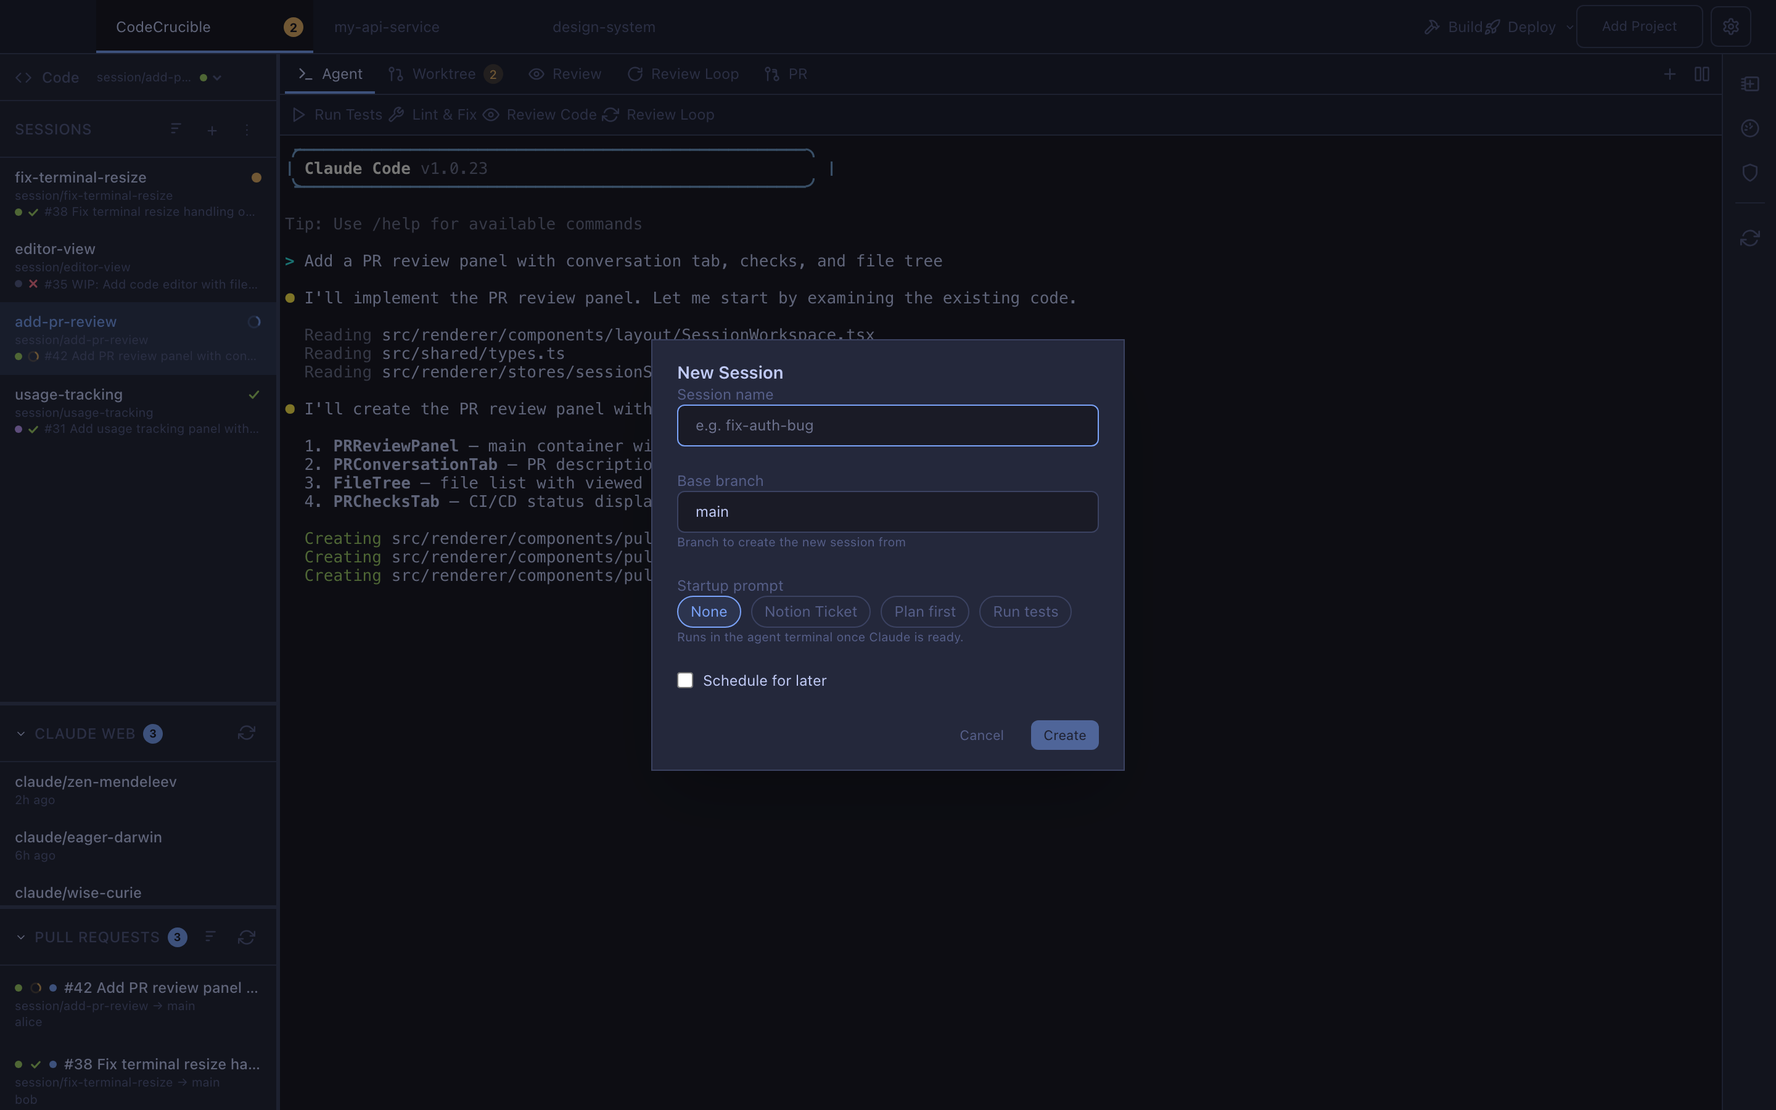
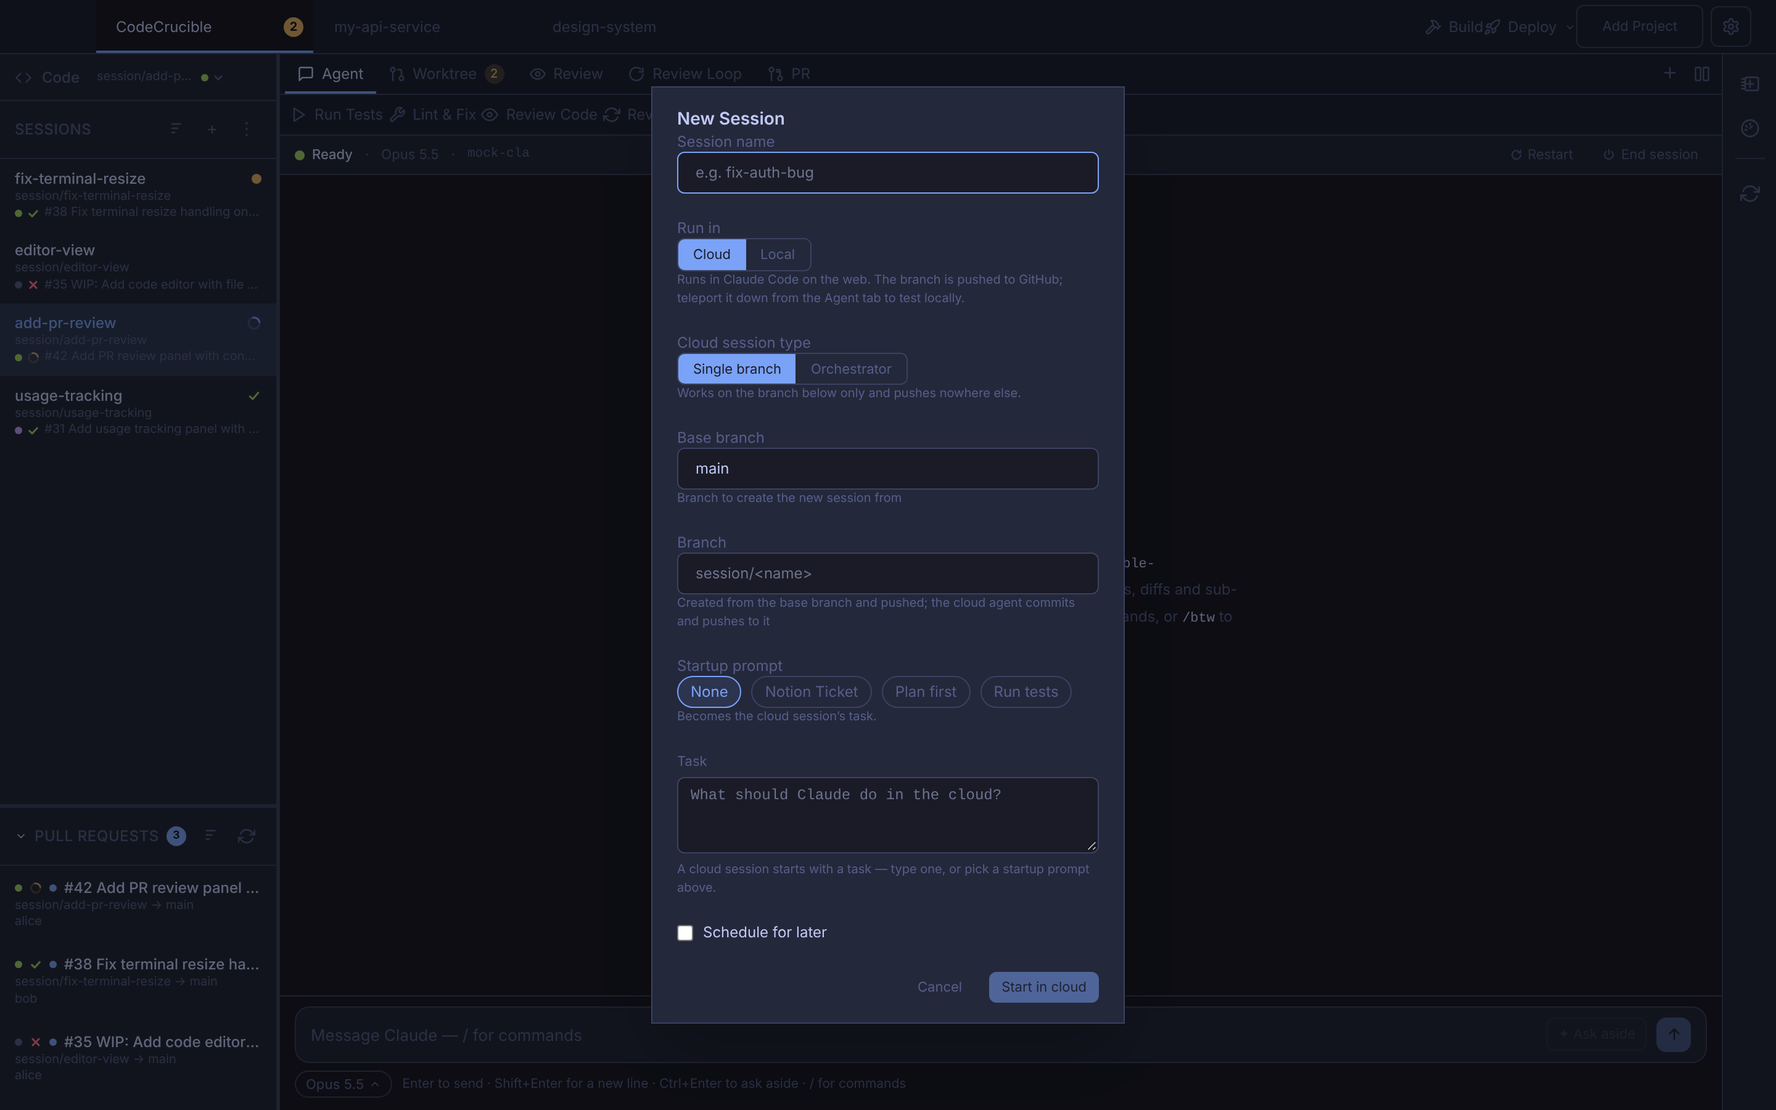
feat(sessions): slug session names for branches; orchestrator cloud sessions
- Session names can be human-readable: the default branch and worktree
  folder use the name lowercased with whitespace runs turned into hyphens
  ("Fix Auth Bug" -> session/fix-auth-bug). Rename follows the same rule.
- New Session dialog: a cloud session is either Single branch (pinned with
  --on-branch and told to push only there, as before) or Orchestrator,
  which starts on the session branch without the pin and is told it may
  create, check out, merge and push whatever branches the task needs.
- README and screenshots updated.

Claude-Session: https://claude.ai/code/session_013YmCEHBtXVHdW5VqGUn2y1

diff --git a/src/renderer/components/sessions/CreateSessionDialog.tsx b/src/renderer/components/sessions/CreateSessionDialog.tsx
@@ -8,7 +8,7 @@ import {
   resolveStartupCommand,
   useStartupPromptStore,
 } from '../../stores/startupPromptStore'
-import type { Project, QueuedSession, SessionLocation } from '../../../shared/types'
+import type { CloudSessionMode, Project, QueuedSession, SessionLocation } from '../../../shared/types'
 import { resolveDefaultSessionLocation } from '../../../shared/cloud-session'
 import { defaultSessionBranch, validateBranchName } from '../../../shared/branch-name'
 import { ToggleGroup } from '../ui/ToggleGroup'
@@ -45,6 +45,8 @@ export function CreateSessionDialog({ open, project, onClose }: Props) {
   const [location, setLocation] = useState<SessionLocation>(() => resolveDefaultSessionLocation(project))
   // The cloud session's task when no startup prompt is picked.
   const [cloudTask, setCloudTask] = useState('')
+  // Single-branch (pinned to the session branch) or an orchestrator that may move between branches.
+  const [cloudMode, setCloudMode] = useState<CloudSessionMode>('single-branch')
   // The session branch follows the name/location until the user edits it.
   const [branchInput, setBranchInput] = useState('')
   const [branchEdited, setBranchEdited] = useState(false)
@@ -80,6 +82,7 @@ export function CreateSessionDialog({ open, project, onClose }: Props) {
     setCustomPrompt('')
     setLocation(resolveDefaultSessionLocation(project))
     setCloudTask('')
+    setCloudMode('single-branch')
     setBranchInput('')
     setBranchEdited(false)
     setBranchesLoading(true)
@@ -207,7 +210,7 @@ export function CreateSessionDialog({ open, project, onClose }: Props) {
           undefined,
           {
             branchName: branch || undefined,
-            ...(cloud ? { location: 'cloud' as const } : {}),
+            ...(cloud ? { location: 'cloud' as const, cloudMode } : {}),
           }
         )
       }
@@ -219,6 +222,7 @@ export function CreateSessionDialog({ open, project, onClose }: Props) {
       setScheduledForInput('')
       setCustomPrompt('')
       setCloudTask('')
+      setCloudMode('single-branch')
       setBranchInput('')
       setBranchEdited(false)
       onClose()
@@ -260,6 +264,25 @@ export function CreateSessionDialog({ open, project, onClose }: Props) {
           </div>
         )}
 
+        {cloud && (
+          <div>
+            <label className="block text-xs text-text-muted mb-2">Cloud session type</label>
+            <ToggleGroup<CloudSessionMode>
+              options={[
+                { value: 'single-branch', label: 'Single branch' },
+                { value: 'orchestrator', label: 'Orchestrator' },
+              ]}
+              value={cloudMode}
+              onChange={setCloudMode}
+            />
+            <p className="text-[10px] text-text-muted mt-2">
+              {cloudMode === 'orchestrator'
+                ? 'Starts on the branch below but may create, switch between and push any branches the task needs.'
+                : 'Works on the branch below only and pushes nowhere else.'}
+            </p>
+          </div>
+        )}
+
         <BranchCombobox
           label="Base branch"
           hint="Branch to create the new session from"
@@ -286,7 +309,9 @@ export function CreateSessionDialog({ open, project, onClose }: Props) {
             error={branchError ?? undefined}
             hint={
               cloud
-                ? 'Created from the base branch and pushed; the cloud agent commits and pushes to it'
+                ? cloudMode === 'orchestrator'
+                  ? 'Created from the base branch and pushed; the orchestrator starts on it'
+                  : 'Created from the base branch and pushed; the cloud agent commits and pushes to it'
                 : 'Created from the base branch for this session'
             }
           />

diff --git a/src/main/services/cloud-create.service.ts b/src/main/services/cloud-create.service.ts
@@ -20,7 +20,7 @@
  */
 import type { BrowserWindow } from 'electron'
 import { IPC } from '../../shared/constants'
-import type { CloudCreateState } from '../../shared/types'
+import type { CloudCreateState, CloudSessionMode } from '../../shared/types'
 import * as terminalService from './terminal.service'
 import {
   claudeShellCommand,
@@ -31,6 +31,7 @@ import {
   pushSessionBranch,
   summarizeCreateFailure,
   withBranchInstruction,
+  withOrchestratorInstruction,
 } from './cloud-session.service'
 
 /** The Agent tab id cloud PTYs report under. */
@@ -46,6 +47,8 @@ export interface StartCloudCreateOptions {
   worktreePath: string
   branch: string
   task: string
+  /** Default 'single-branch'. */
+  mode?: CloudSessionMode
   configDir?: string | null
   repoPath?: string
   claudeTheme?: string
@@ -78,8 +81,20 @@ export function forgetCloudCreate(sessionId: string): void {
   runs.delete(sessionId)
 }
 
+/**
+ * The `--cloud` task for a run. A single-branch session is told to push only
+ * to its branch; an orchestrator is told it may move between branches.
+ */
+const createTask = (opts: Pick<StartCloudCreateOptions, 'task' | 'branch' | 'mode'>): string =>
+  opts.mode === 'orchestrator'
+    ? withOrchestratorInstruction(opts.task, opts.branch)
+    : withBranchInstruction(opts.task, opts.branch)
+
 function spawnCreatePty(run: Run, opts: StartCloudCreateOptions, withOnBranch: boolean): void {
-  const argv = cloudStartArgv(withBranchInstruction(opts.task, opts.branch), withOnBranch ? opts.branch : undefined)
+  // An orchestrator is never pinned with --on-branch: it starts on the pushed
+  // branch (the worktree's current one) and may push others.
+  const pin = withOnBranch && opts.mode !== 'orchestrator'
+  const argv = cloudStartArgv(createTask(opts), pin ? opts.branch : undefined)
   // One cloud PTY per session Agent tab; spawnTerminal is idempotent per tab.
   terminalService.killTerminalsForTab(opts.sessionId, CLOUD_PTY_TAB)
   const terminalId = terminalService.spawnTerminal(
@@ -119,7 +134,7 @@ function spawnCreatePty(run: Run, opts: StartCloudCreateOptions, withOnBranch: b
           emit(run)
           return
         }
-        if (withOnBranch && isUnknownOnBranchError(run.output)) {
+        if (pin && isUnknownOnBranchError(run.output)) {
           // A CLI without --on-branch: the VM still clones the pushed branch
           // (the worktree's current branch) and the task text steers it.
           spawnCreatePty(run, opts, false)
@@ -153,7 +168,7 @@ export async function startCloudCreate(window: BrowserWindow, opts: StartCloudCr
   const task = opts.task?.trim()
   if (!task) throw new Error('A cloud session needs a task description to start')
   // Validates the branch and task before anything runs.
-  cloudStartArgv(withBranchInstruction(task, opts.branch), opts.branch)
+  cloudStartArgv(createTask({ ...opts, task }), opts.branch)
 
   forgetCloudCreate(opts.sessionId)
   const run: Run = {

diff --git a/src/preload/index.ts b/src/preload/index.ts
@@ -2,7 +2,7 @@ import { contextBridge, ipcRenderer } from 'electron'
 import { IPC } from '../shared/constants'
 import type { VisualAgentAskDecision, VisualAgentFrame, VisualAgentSnapshot, VisualAgentStartOptions } from '../shared/visual-agent'
 import type { AgentBrowserLinkEvent } from '../shared/agent-browser'
-import type { Project, Session, Commit, FileDiff, PullRequest, PRFile, PRComment, PRReviewEvent, PRMergeMethod, UpdateStatus, Note, PRDetail, PRConversationComment, PRCheck, PRReviewThread, SessionUsage, UsageStats, SubscriptionInfo, FileEntry, FileStat, ClaudeAccount, CustomButton, CustomButtonGroup, ButtonActionType, ButtonExecutionMode, ContextKind, GitHubCollaborator, PRLabel, StartupPrompt, ReviewLoopConfig, ReviewLoopSettings, ReviewLoopState, QueuedSession, QueuedMessage, UsageLimitEvent, NotionDatabaseSchema, NotionFireTaskPayload, NotionIntegrationConfig, NotionRelationOption, NotionTaskPayload, NotionTestConnectionResult, NotionUser, CloudSessionResult, CloudTeleportResult, CloudTeleportState, CloudCreateState, SandboxJob, SandboxInfo, SandboxTeardownReport, SandboxerConfigCheck } from '../shared/types'
+import type { Project, Session, Commit, FileDiff, PullRequest, PRFile, PRComment, PRReviewEvent, PRMergeMethod, UpdateStatus, Note, PRDetail, PRConversationComment, PRCheck, PRReviewThread, SessionUsage, UsageStats, SubscriptionInfo, FileEntry, FileStat, ClaudeAccount, CustomButton, CustomButtonGroup, ButtonActionType, ButtonExecutionMode, ContextKind, GitHubCollaborator, PRLabel, StartupPrompt, ReviewLoopConfig, ReviewLoopSettings, ReviewLoopState, QueuedSession, QueuedMessage, UsageLimitEvent, NotionDatabaseSchema, NotionFireTaskPayload, NotionIntegrationConfig, NotionRelationOption, NotionTaskPayload, NotionTestConnectionResult, NotionUser, CloudSessionResult, CloudTeleportResult, CloudTeleportState, CloudCreateState, CloudSessionMode, SandboxJob, SandboxInfo, SandboxTeardownReport, SandboxerConfigCheck } from '../shared/types'
 
 // Multiplex many subscribers through a single ipcRenderer listener per channel.
 // Without this, each useTerminal/onData/onExit caller adds its own listener and
@@ -537,6 +537,7 @@ const api = {
       worktreePath: string
       branch: string
       task: string
+      mode?: CloudSessionMode
       configDir?: string | null
       repoPath?: string
       claudeTheme?: string

diff --git a/src/renderer/stores/sessionStore.ts b/src/renderer/stores/sessionStore.ts
@@ -1,7 +1,7 @@
 import { create } from 'zustand'
-import type { Session, PullRequest, WorktreeInfo, NotionTicketLink, SessionLocation } from '../../shared/types'
+import type { Session, PullRequest, WorktreeInfo, NotionTicketLink, SessionLocation, CloudSessionMode } from '../../shared/types'
 import { useToastStore } from './toastStore'
-import { renameMovesBranch, sessionRemoteBranch } from '../../shared/branch-name'
+import { defaultSessionBranch, renameMovesBranch, sessionRemoteBranch } from '../../shared/branch-name'
 import { useTerminalStore } from './terminalStore'
 import { useCloudSessionStore } from './cloudSessionStore'
 import { useVisualAgentStore } from './visualAgentStore'
@@ -114,6 +114,8 @@ export interface CreateSessionOptions {
   location?: SessionLocation
   /** Branch to create for the session. Defaults to `session/<name>`. */
   branchName?: string
+  /** How a cloud session treats branches. Default 'single-branch'. */
+  cloudMode?: CloudSessionMode
 }
 
 async function restoreDetachedWorktree(info: DetachedWorktreeInfo | null) {
@@ -265,6 +267,7 @@ export const useSessionStore = create<SessionState>((set, get) => ({
       session.cloudPending = {
         task: startupCommand!.trim(),
         branch: worktreeInfo.branch,
+        ...(options?.cloudMode === 'orchestrator' ? { mode: 'orchestrator' as const } : {}),
         createdAt: new Date().toISOString(),
       }
     }
@@ -407,7 +410,7 @@ export const useSessionStore = create<SessionState>((set, get) => ({
         repoPath,
         session.worktreePath,
         session.branchName,
-        `session/${trimmed}`
+        defaultSessionBranch(trimmed)
       ))
     }
 

diff --git a/tests/unit/components/sessions/CreateSessionDialog.test.tsx b/tests/unit/components/sessions/CreateSessionDialog.test.tsx
@@ -52,8 +52,31 @@ describe('<CreateSessionDialog> location toggle', () => {
     expect(createSession).toHaveBeenCalledWith('p1', '/repo', 'fix-auth', 'main', 'Fix the auth bug', undefined, {
       branchName: 'session/fix-auth',
       location: 'cloud',
+      cloudMode: 'single-branch',
     })
     await waitFor(() => expect(onClose).toHaveBeenCalled())
+  })
+
+  it('offers an orchestrator cloud session and passes the mode through', async () => {
+    render(<CreateSessionDialog open project={project()} onClose={() => {}} />)
+    await waitFor(() => expect((window as any).api.git.defaultBranch).toHaveBeenCalled())
+    expect(radio('Single branch').getAttribute('aria-checked')).toBe('true')
+    fireEvent.change(screen.getByLabelText('Session name'), { target: { value: 'Big Refactor' } })
+    fireEvent.click(radio('Orchestrator'))
+    fireEvent.change(screen.getByLabelText('Task'), { target: { value: 'Split it up' } })
+    fireEvent.click(screen.getByRole('button', { name: 'Start in cloud' }))
+    await waitFor(() =>
+      expect(createSession).toHaveBeenCalledWith('p1', '/repo', 'Big Refactor', 'main', 'Split it up', undefined, {
+        branchName: 'session/big-refactor',
+        location: 'cloud',
+        cloudMode: 'orchestrator',
+      })
+    )
+  })
+
+  it('hides the cloud session type for a local session', () => {
+    render(<CreateSessionDialog open project={project({ defaultSessionLocation: 'local' })} onClose={() => {}} />)
+    expect(screen.queryByRole('radio', { name: 'Orchestrator' })).toBeNull()
   })
 
   it('switching to Local keeps today’s local create', async () => {

diff --git a/src/shared/branch-name.ts b/src/shared/branch-name.ts
@@ -14,12 +14,18 @@ export const SESSION_BRANCH_PREFIX: Record<SessionLocation, string> = {
   cloud: 'session/',
 }
 
+/**
+ * A session's human-readable name as a branch / directory segment: lowercased,
+ * with each run of whitespace replaced by a hyphen (`Fix Auth Bug` → `fix-auth-bug`).
+ */
+export const sessionNameSlug = (name: string): string => name.trim().toLowerCase().replace(/\s+/g, '-')
+
 export const defaultSessionBranch = (name: string, location: SessionLocation = 'local'): string =>
-  `${SESSION_BRANCH_PREFIX[location]}${name}`
+  `${SESSION_BRANCH_PREFIX[location]}${sessionNameSlug(name)}`
 
 /** The branch a local session named `name` gets when it was not customised. */
 export const isDefaultSessionBranch = (branch: string, name: string): boolean =>
-  (Object.values(SESSION_BRANCH_PREFIX) as string[]).some((p) => branch === `${p}${name}`)
+  (Object.values(SESSION_BRANCH_PREFIX) as string[]).some((p) => branch === `${p}${sessionNameSlug(name)}`)
 
 /**
  * Roughly `git check-ref-format --branch`. Returns a human-readable error, or
@@ -60,4 +66,4 @@ export const sessionDeletesLocalBranch = (session: Pick<Session, 'branchName' | 
 
 /** Whether renaming the session renames its branch (see sessionStore.renameSession). */
 export const renameMovesBranch = (session: Pick<Session, 'name' | 'branchName' | 'cloud' | 'cloudPending'>): boolean =>
-  !session.cloud && !session.cloudPending && session.branchName === `session/${session.name}`
+  !session.cloud && !session.cloudPending && session.branchName === defaultSessionBranch(session.name)

diff --git a/src/main/services/cloud-session.service.ts b/src/main/services/cloud-session.service.ts
@@ -87,6 +87,14 @@ export const cloudStartArgv = (prompt: string, branch?: string): string[] => {
 export const withBranchInstruction = (prompt: string, branch: string): string =>
   `Work on the git branch \`${branch}\` (already checked out for you). Commit your changes and push them to exactly that branch (\`git push origin ${branch}\`); do not create or push to any other branch.\n\n${prompt}`
 
+/**
+ * Prepend an instruction for an orchestrator cloud session: it starts on
+ * `branch` but may create, check out, merge and push whatever branches the
+ * task needs.
+ */
+export const withOrchestratorInstruction = (prompt: string, branch: string): string =>
+  `You are an orchestrator session. You start on the git branch \`${branch}\`, but you are not limited to it: create, check out, merge and push to whichever branches the task needs, and split the work across branches where that helps. When you finish, list every branch you created or pushed and what is on each.\n\n${prompt}`
+
 /** True when claude rejected `--on-branch` as an unknown option (older CLI). */
 export const isUnknownOnBranchError = (text: string): boolean =>
   /(unknown|unrecognized) (option|argument|flag)[^\n]*--on-branch/i.test(text)

diff --git a/src/main/services/worktree.service.ts b/src/main/services/worktree.service.ts
@@ -5,7 +5,7 @@ import { join, dirname, basename, resolve as resolvePath, relative, isAbsolute, 
 import { mkdir, access, realpath, rm } from 'fs/promises'
 import type { WorktreeInfo } from '../../shared/types'
 import { getDefaultBranch } from './git.service'
-import { validateBranchName } from '../../shared/branch-name'
+import { defaultSessionBranch, sessionNameSlug, validateBranchName } from '../../shared/branch-name'
 
 const execFileAsync = promisify(execFile)
 
@@ -171,11 +171,11 @@ export async function createWorktree(
   requestedBranch?: string
 ): Promise<WorktreeInfo> {
   const g = simpleGit(repoPath)
-  const branchName = requestedBranch?.trim() || `session/${sessionName}`
+  const branchName = requestedBranch?.trim() || defaultSessionBranch(sessionName)
   const invalid = validateBranchName(branchName)
   if (invalid) throw new Error(`Invalid branch name "${branchName}": ${invalid}`)
   const wtBase = worktreeDir(repoPath)
-  const wtPath = join(wtBase, sessionName)
+  const wtPath = join(wtBase, sessionNameSlug(sessionName))
 
   // The new branch is created with `-b`; refuse up front with a clear message
   // rather than git's terse "a branch named ... already exists".

diff --git a/src/shared/types.ts b/src/shared/types.ts
@@ -135,11 +135,20 @@ export interface CloudSessionResult {
  * session is saved first and the Agent tab drives the CLI until it prints the
  * new session's URL; then `cloud` is set and this is cleared.
  */
+/**
+ * How a cloud session treats branches. 'single-branch' pins it to the session
+ * branch and tells it to push only there; 'orchestrator' starts it on that
+ * branch but lets it create, switch between and push any branches it needs.
+ */
+export type CloudSessionMode = 'single-branch' | 'orchestrator'
+
 export interface CloudSessionPending {
   /** The task the cloud session starts with (without the branch instruction). */
   task: string
-  /** The branch the cloud agent is told to work on and push to. */
+  /** The branch the cloud agent is told to work on and push to (orchestrator: starts on). */
   branch: string
+  /** Missing means 'single-branch' (every pending session before orchestrator mode). */
+  mode?: CloudSessionMode
   /** ISO time the session was saved as pending. */
   createdAt: string
 }

diff --git a/src/renderer/components/sessions/SessionCard.tsx b/src/renderer/components/sessions/SessionCard.tsx
@@ -6,7 +6,7 @@ import { Dialog } from '../ui/Dialog'
 import { Input } from '../ui/Input'
 import { Button } from '../ui/Button'
 import { CIIndicator } from '../pullrequests/CIIndicator'
-import { renameMovesBranch, sessionDeletesLocalBranch, sessionRemoteBranch } from '../../../shared/branch-name'
+import { defaultSessionBranch, renameMovesBranch, sessionDeletesLocalBranch, sessionRemoteBranch } from '../../../shared/branch-name'
 
 interface Props {
   session: Session
@@ -228,7 +228,7 @@ export function SessionCard({ session, isActive, isOpenedAsMain, status, pr, onC
             error={renameError || undefined}
             hint={
               movesBranch
-                ? `The git branch will be renamed to session/${renameValue.trim() || '<new name>'}`
+                ? `The git branch will be renamed to ${defaultSessionBranch(renameValue.trim() || '<new name>')}`
                 : `The git branch stays ${session.branchName}`
             }
           />

diff --git a/tests/unit/shared/branch-name.test.ts b/tests/unit/shared/branch-name.test.ts
@@ -4,6 +4,7 @@ import {
   isDefaultSessionBranch,
   renameMovesBranch,
   sessionDeletesLocalBranch,
+  sessionNameSlug,
   sessionRemoteBranch,
   validateBranchName,
 } from '../../../src/shared/branch-name'
@@ -17,6 +18,14 @@ describe('defaultSessionBranch', () => {
   it('recognises the default branch for a name', () => {
     expect(isDefaultSessionBranch('session/a', 'a')).toBe(true)
     expect(isDefaultSessionBranch('feature/a', 'a')).toBe(false)
+    expect(isDefaultSessionBranch('session/fix-auth', 'Fix Auth')).toBe(true)
+  })
+
+  it('lowercases a human-readable name and hyphenates its spaces', () => {
+    expect(sessionNameSlug('  Fix The   Auth Bug ')).toBe('fix-the-auth-bug')
+    expect(sessionNameSlug('fix/Misc Stuff')).toBe('fix/misc-stuff')
+    expect(defaultSessionBranch('Fix Auth Bug', 'cloud')).toBe('session/fix-auth-bug')
+    expect(renameMovesBranch({ name: 'Fix Auth', branchName: 'session/fix-auth' })).toBe(true)
   })
 })
 

diff --git a/tests/unit/main/cloud-create.service.test.ts b/tests/unit/main/cloud-create.service.test.ts
@@ -98,6 +98,16 @@ describe('startCloudCreate', () => {
     }
   })
 
+  it('orchestrator: no --on-branch pin, and the task lets it move between branches', async () => {
+    await startCloudCreate(win, { ...opts, mode: 'orchestrator' })
+    expect(h.state.gitCalls[0]).toEqual({ args: ['push', '-u', 'origin', 'session/fix'], cwd: '/wt/fix' })
+    const spawn = h.state.spawns[0]
+    expect(spawn.command.startsWith("claude --cloud 'You are an orchestrator session")).toBe(true)
+    expect(spawn.command).toContain('fix the login bug')
+    expect(spawn.command).not.toContain('--on-branch')
+    expect(spawn.command).not.toContain('do not create or push to any other branch')
+  })
+
   it('pending → created: reports the session as soon as the CLI prints it, CLI still attached', async () => {
     await startCloudCreate(win, opts)
     pty('term-1').onData!('Setting up remote session…\r\n\x1b[32m✓\x1b[0m Created cloud session\r\n')
